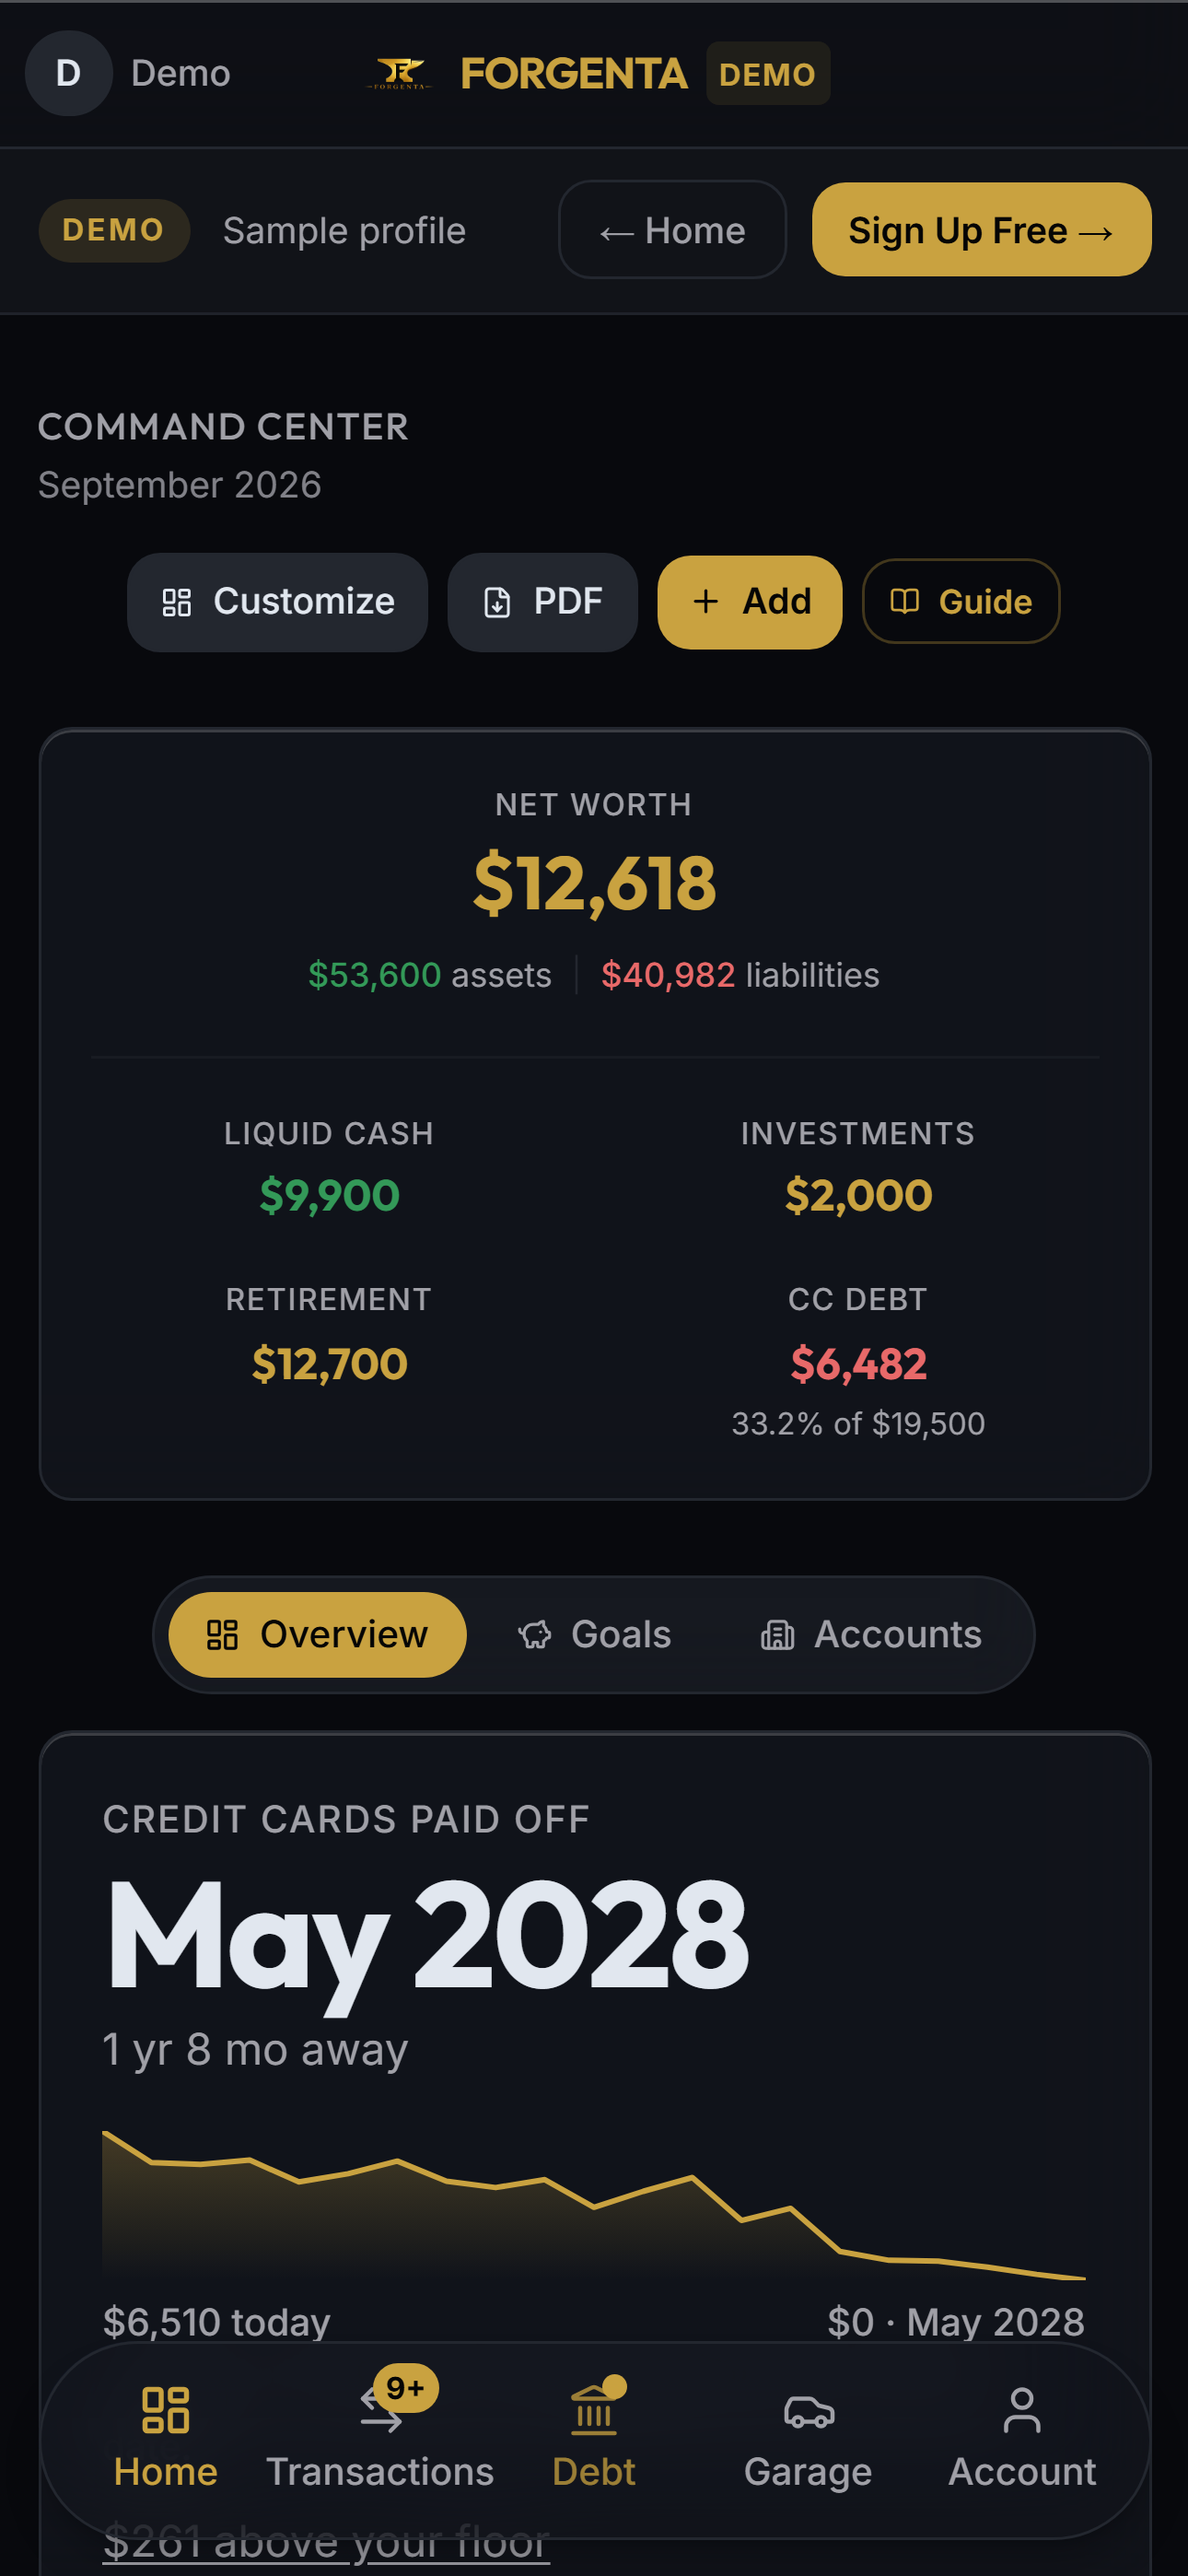
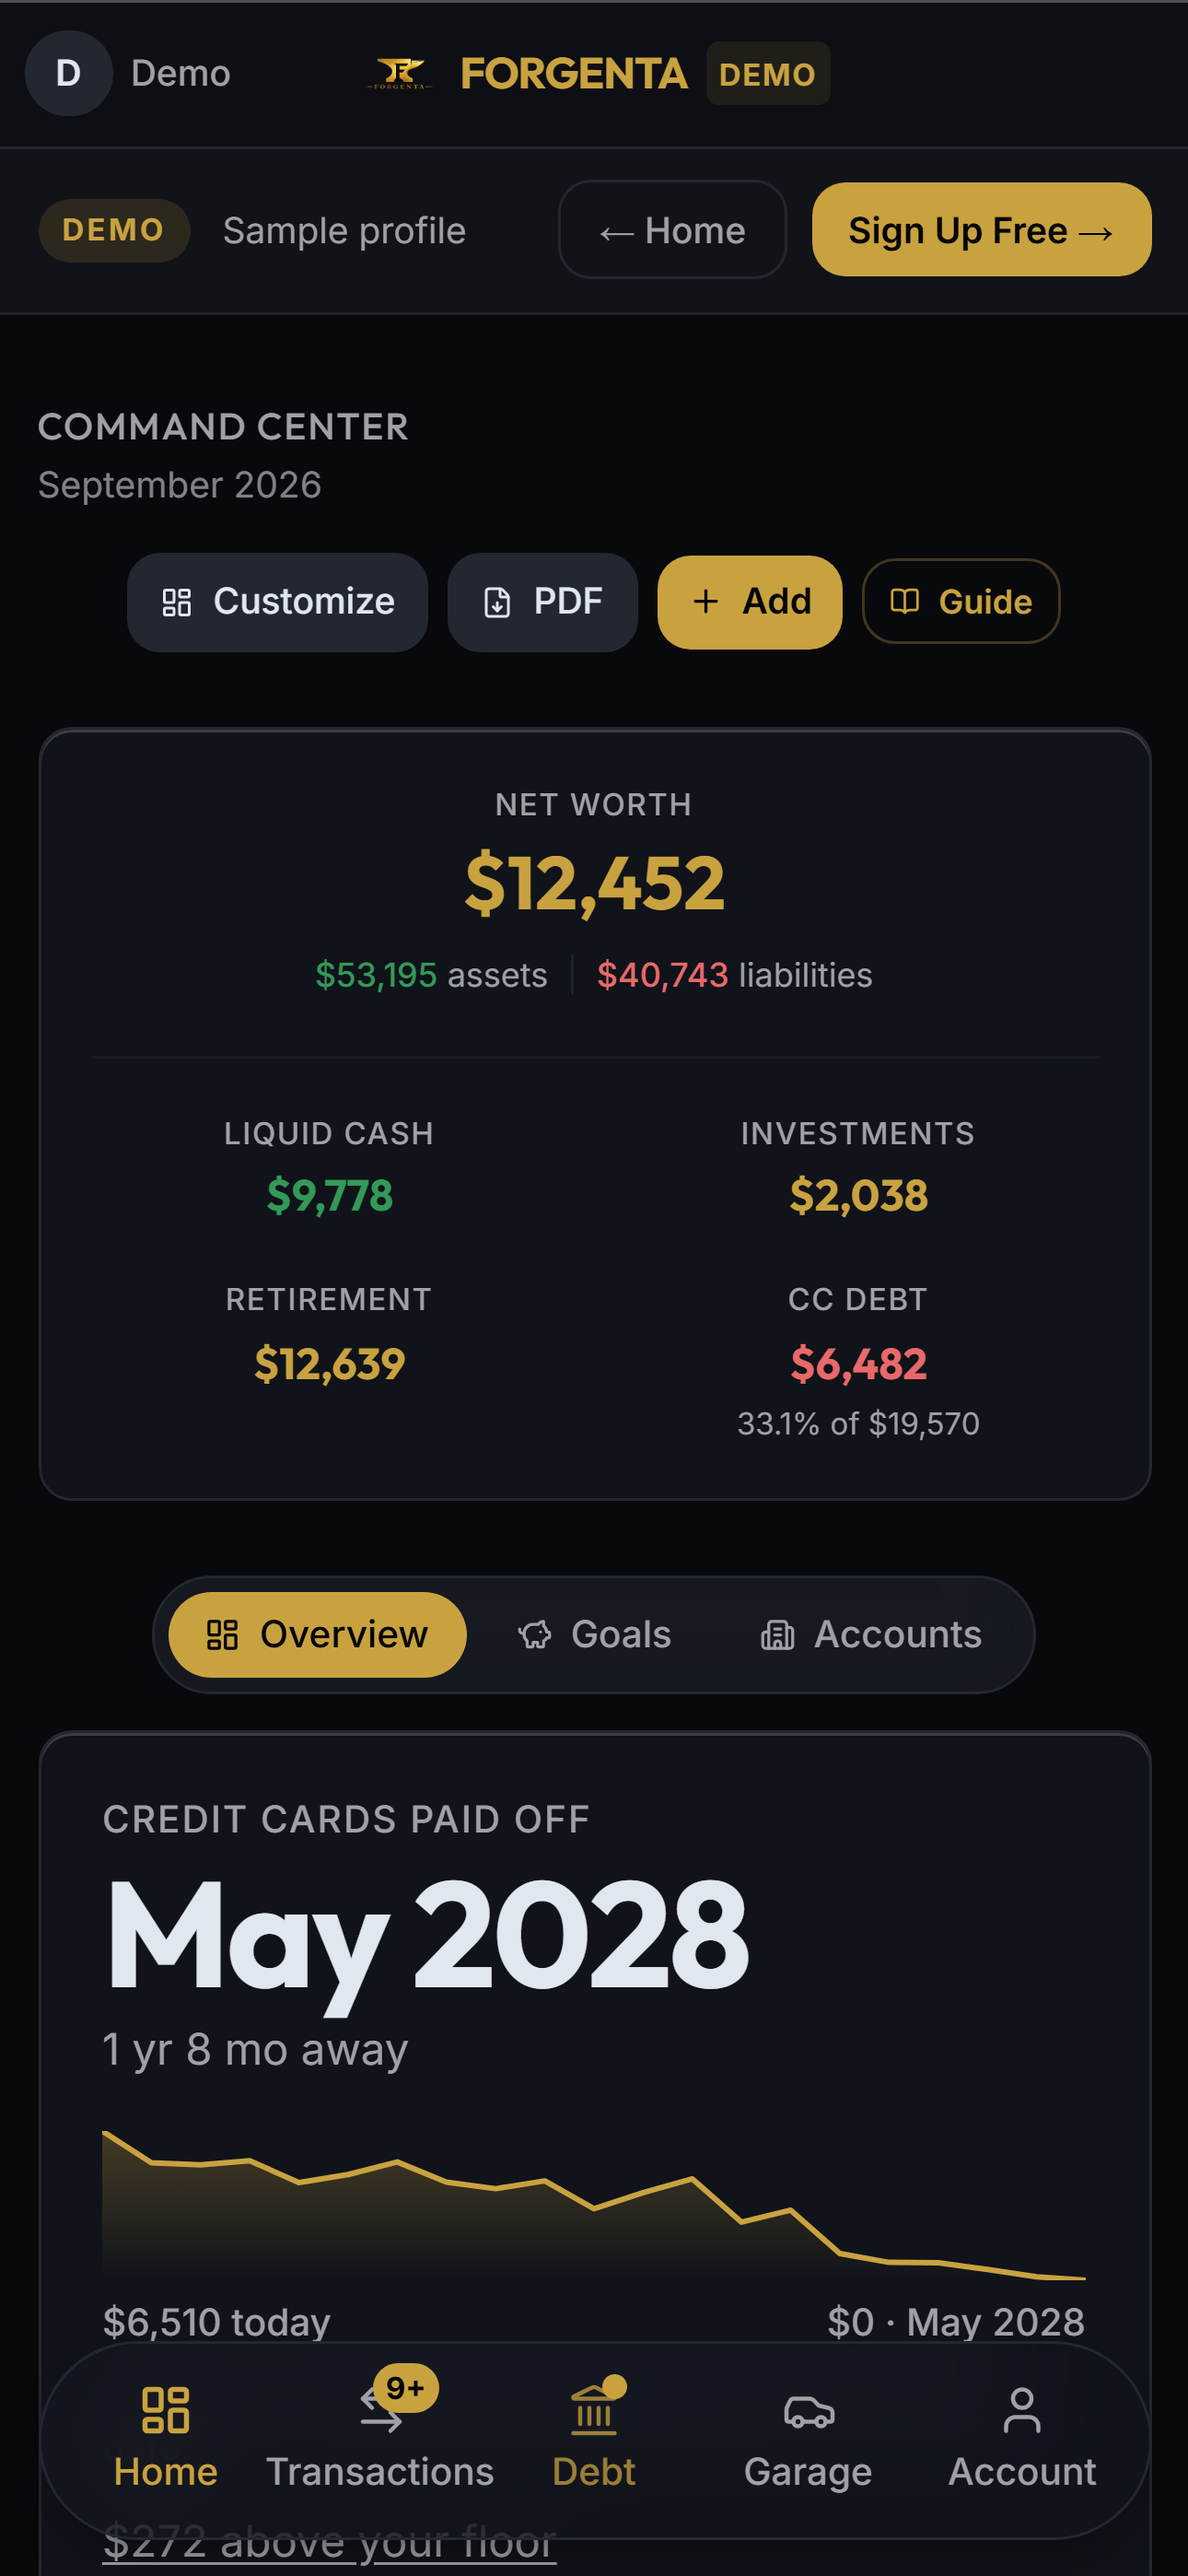
[marketing]: re-capture phone and iPad sets on the de-rounded fixture (tree 344df45c)
Ask f57bc271. There are 14 frames at the same paths as before. A Python scan with a
positive control finds no money figure ending in 00 in any frame, except the $1,500
cash floor, which is a setting. Dashboard now reads net worth $12,452, assets $53,195,
liabilities $40,743, and cards paid off May 2028. The README carries the provenance.
Not uploaded.

Release-Note: none

Claude-Session: https://claude.ai/code/session_01E5RRp9SNqJSzvGjaYex2Vo

diff --git a/marketing/app-store/2026-09-23/README.md b/marketing/app-store/2026-09-23/README.md
@@ -4,7 +4,8 @@ Raw material for Ruby's screenshot set (ask 781edc28). **These are unframed capt
 
 ## Provenance (DEMO-FIXTURE-SPEC §4)
 
-- **Fixture:** `src/lib/demo-data.ts` at commit `cd7e1ea2` (the persona re-tune that makes the cards clear), plus the copy fixes in `5dc058a0` and `a9d54b07`. The frames were captured from a tree at `a9d54b07`.
+- **Fixture:** `src/lib/demo-data.ts` at `1de16f7f`: the persona re-tune `cd7e1ea2`, plus the spec §3 de-rounding (no money figure ending in 00). Guide-copy fixes: `5dc058a0`, `a9d54b07`, `344df45c`. **Both sets were re-captured from a tree at `344df45c`**, which replaces the earlier `a9d54b07` frames at the same paths.
+- **Round-figure check:** a Python scan of every visible money figure in all 14 frames found none ending in 00 except the $1,500 cash floor, which is a user setting. The scan's control must flag `$15,000` and `$300`, and it does.
 - **Source:** `/demo` on the local dev server (Vite), wall clock 2026-09-23. demo-data.ts computes its dates from the day it loads, so a capture on another day shows other dates.
 - **Viewport:** 430x932 CSS px at device scale 3, so each PNG is **1290x2796** (the iPhone 6.7"/6.9" App Store size). **Dark** theme.
 - **Cookie banner:** rejected before the first frame, so the capture fired no analytics. No frame shows the banner.
@@ -14,20 +15,20 @@ Raw material for Ruby's screenshot set (ask 781edc28). **These are unframed capt
 
 | File | Screen | What it shows |
 |---|---|---|
-| `01-dashboard.png` | Dashboard, Overview | Net worth $12,618; "CREDIT CARDS PAID OFF May 2028, 1 yr 8 mo away" |
+| `01-dashboard.png` | Dashboard, Overview | Net worth $12,452 ($53,195 assets, $40,743 liabilities); "CREDIT CARDS PAID OFF May 2028, 1 yr 8 mo away" |
 | `02-debt.png` | Debt Payoff | Avalanche guide card, Credit Card Payoff / Auto Loans tabs |
 | `03-decisions.png` | Transactions, Decision Deck | "Marketway Foods -$118 - Is this your Groceries?" (1 of 78) |
 | `04-forecast.png` | Transactions, Forecast tab | "NEXT MILESTONE May 2028 - CC Debt Free!" |
 | `05-plan.png` | Transactions, Plan tab | Recurring-rules guide card |
 | `06-accounts.png` | Dashboard, Accounts | Net worth tiles, then the accounts guide card |
 | `07-goals.png` | Dashboard, Goals | Net worth tiles, Add Goal, the goals guide card |
-| `08-garage.png` | Garage, Vehicles | 2024 Honda Civic (saving), Toyota RAV4 (owned, loan) |
+| `08-garage.png` | Garage, Vehicles | 2024 Honda Civic (saving, $2,847 of $5,590 down), Toyota RAV4 (owned, loan) |
 
 Strongest in Ada's view: 01, 04 and 03. They carry a date and a decision, the things this app does that a spreadsheet does not. 06 and 07 are mostly guide-card text above the fold.
 
 ## iPad 13" (`ipad-13/`), for ask e0b5154b
 
-The same six screens Ruby used (01, 02, 03, 04, 05, 08). They are captured at 1032x1376 CSS px @2x = **2064x2752**, which is the 13" iPad App Store size. Dark theme, the same fixture and tree (`a9d54b07`, fixture `cd7e1ea2`), the same day. At that width the app renders its tablet layout with the collapsed side rail, so these frames are the real iPad layout, not the phone layout scaled up. On iPad the Decision Deck (03) is a centred panel, not full screen.
+The same six screens Ruby used (01, 02, 03, 04, 05, 08). They are captured at 1032x1376 CSS px @2x = **2064x2752**, which is the 13" iPad App Store size. Dark theme, the same fixture and tree (`344df45c`, fixture `1de16f7f`), the same day. At that width the app renders its tablet layout with the collapsed side rail, so these frames are the real iPad layout, not the phone layout scaled up. On iPad the Decision Deck (03) is a centred panel, not full screen.
 
 ## Limits
 
